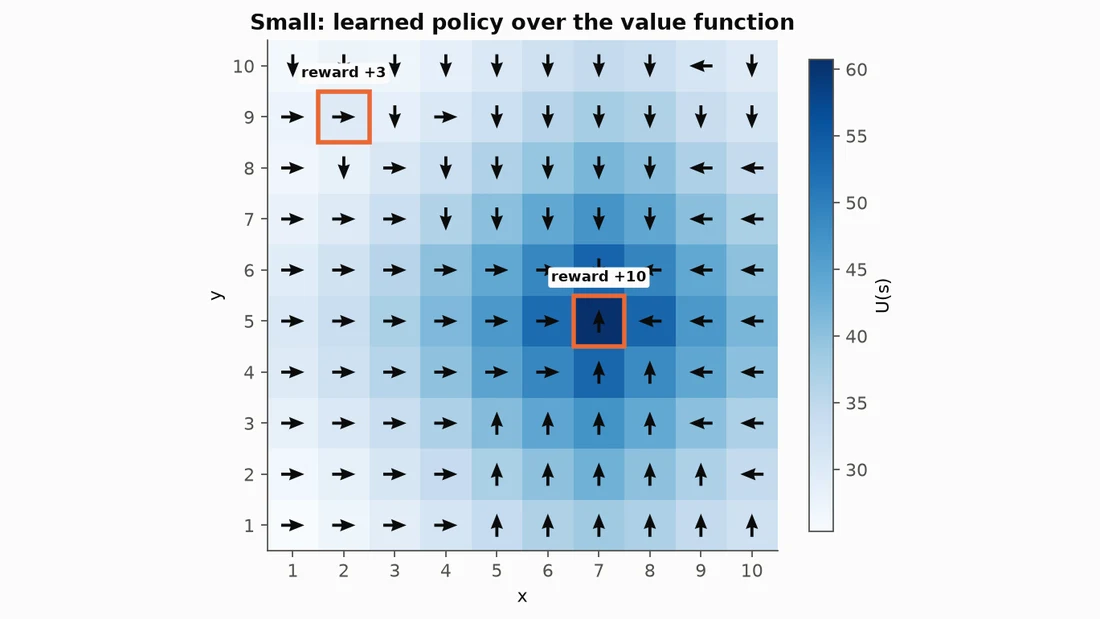
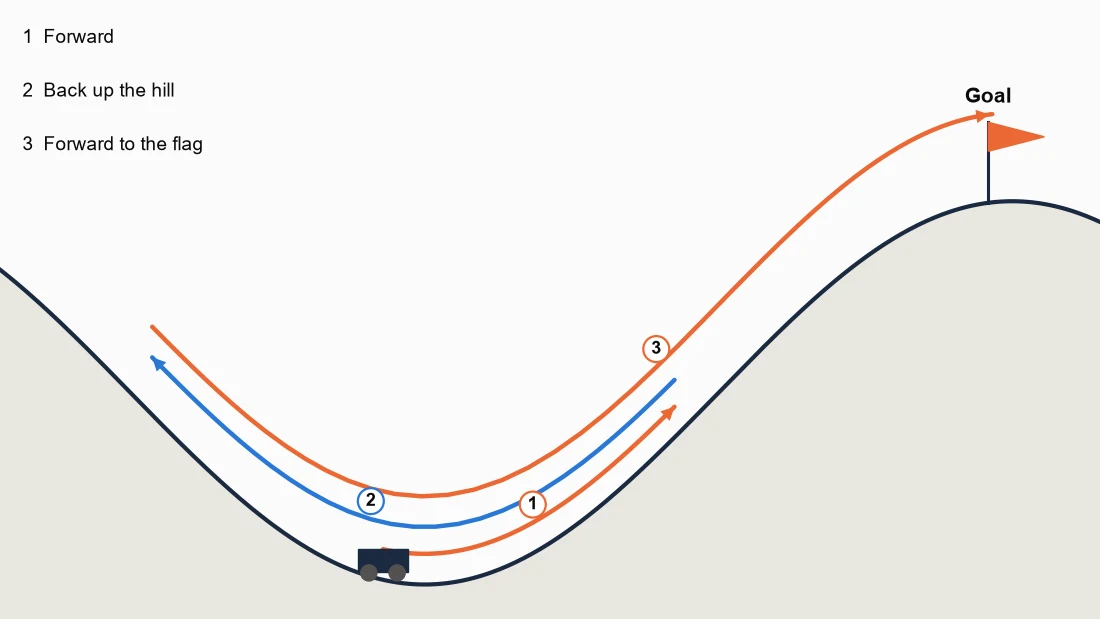
Show the incoming SLAB role, move the capstone up, and redraw the RL card
- Uncomment the incoming SLAB timeline entry and date it January 2027.
- Projects now run: trajectory design, state estimation, the senior
  design capstone, reinforcement learning, Bayesian structure learning,
  then the rest.
- The RL thumbnail is now the mountain car problem: the learned policy
  rolled out through the learned MLE transition model from rest in the
  valley. It swings forward, backs up the left hill, then goes over the
  top to the goal in 134 steps.

diff --git a/index.html b/index.html
@@ -180,7 +180,7 @@
 
       <div class="timeline-line"></div>
 
-      <!-- <div class="timeline-row upcoming">
+      <div class="timeline-row upcoming">
         <div class="col-left">
           <div class="timeline-img-wrapper logo-wrapper">
             <img src="assets/images/slablogo.webp" alt="Stanford Space Rendezvous Laboratory" loading="lazy">
@@ -190,7 +190,7 @@
           <div class="timeline-dot dot-slab">SL</div>
         </div>
         <div class="col-right">
-          <div class="date-label">Winter 2026 — Incoming</div>
+          <div class="date-label">January 2027 — Incoming</div>
           <div class="exp-card">
             <h3>Stanford Space Rendezvous Laboratory (SLAB)</h3>
             <p>
@@ -199,7 +199,7 @@
             </p>
           </div>
         </div>
-      </div> -->
+      </div>
 
       <div class="timeline-row">
         <div class="col-left">
@@ -280,9 +280,32 @@
         </article>
 
         <article class="project-item">
+          <a href="assets/docs/MAE155_Team2_CoDR.pdf" target="_blank" rel="noopener">
+            <div class="project-thumb">
+              <img loading="lazy" src="assets/images/bwb.webp" alt="Blended wing body airliner concept">
+            </div>
+            <div class="project-body">
+              <span class="project-context">UCSD Capstone &middot; 2026</span>
+              <h3>Aircraft Conceptual Design</h3>
+              <p class="project-subject">Blended Wing Body Airliner &ldquo;Manta&rdquo;</p>
+              <p>
+                Fuselage as the lifting body, with a non-cylindrical cabin, aft-mounted high-bypass
+                turbofans, and twin vertical stabilizers.
+              </p>
+              <ul class="project-tags">
+                <li>Aircraft Design</li>
+                <li>Sizing</li>
+                <li>Trade Studies</li>
+              </ul>
+              <span class="project-cta">Read the design review (PDF)</span>
+            </div>
+          </a>
+        </article>
+
+        <article class="project-item">
           <a href="assets/docs/AA228_Batch_Reinforcement_Learning.pdf" target="_blank" rel="noopener">
             <div class="project-thumb">
-              <img loading="lazy" src="assets/images/project_batchrl.webp" alt="Learned grid-world policy arrows over the value function, converging on the +10 reward cell">
+              <img loading="lazy" src="assets/images/project_batchrl.webp" alt="Mountain car rolled out under the learned policy: forward, back up the left hill, then forward over the top to the goal flag">
             </div>
             <div class="project-body">
               <span class="project-context">Stanford AA 228 &middot; 2026</span>
@@ -321,29 +344,6 @@
                 <li>Search</li>
               </ul>
               <span class="project-cta">Read the report (PDF)</span>
-            </div>
-          </a>
-        </article>
-
-        <article class="project-item">
-          <a href="assets/docs/MAE155_Team2_CoDR.pdf" target="_blank" rel="noopener">
-            <div class="project-thumb">
-              <img loading="lazy" src="assets/images/bwb.webp" alt="Blended wing body airliner concept">
-            </div>
-            <div class="project-body">
-              <span class="project-context">UCSD Capstone &middot; 2026</span>
-              <h3>Aircraft Conceptual Design</h3>
-              <p class="project-subject">Blended Wing Body Airliner &ldquo;Manta&rdquo;</p>
-              <p>
-                Fuselage as the lifting body, with a non-cylindrical cabin, aft-mounted high-bypass
-                turbofans, and twin vertical stabilizers.
-              </p>
-              <ul class="project-tags">
-                <li>Aircraft Design</li>
-                <li>Sizing</li>
-                <li>Trade Studies</li>
-              </ul>
-              <span class="project-cta">Read the design review (PDF)</span>
             </div>
           </a>
         </article>
